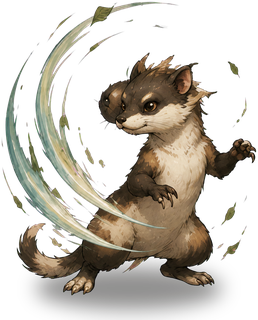
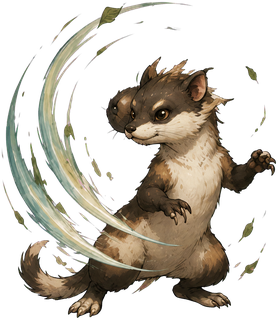
接地影をゲーム側共通表現へ移行(新美術基準対応)+序盤10体を影なしで再加工
奉行所パッケージ/00_敵イラスト制作基準.md(2026-07-31)の「透過PNGへ接地影を焼き込まない・
必要な影はゲーム画面側で全敵共通の表現として付ける」に対応。
①assets/enemies/clear/の10体を焼き込み影なしで再加工(アルファトリミング+320px縮小のみ)
②frameless敵の足元にCSS共通接地影(radial-gradientの楕円、立ち絵の背面z0)を新設。
百面師・うつろ等のframelessボスにも自動適用され、今後の新基準スプライトはそのまま置くだけになる

Claude-Session: https://claude.ai/code/session_01GCRHbynsY6dJ39RHqebWFL

diff --git a/battle.css b/battle.css
@@ -216,6 +216,14 @@
        重ならないよう、高さ方向でも縮める(844px→134=無効/667px→91/568px→68) */
   .enemy-card.frameless img.card-portrait-img { width: min(110px, 26vw, calc(23.2vh - 64px)); height: min(110px, 26vw, calc(23.2vh - 64px)); }
   .enemy-card.frameless .hp-with-warning { max-width: 92px; margin-left: auto; margin-right: auto; }
+  /* 全敵共通の接地影(新美術基準2026-07-31: 透過PNG本体へ影を焼き込まず、ゲーム画面側で統一する)。
+     立ち絵の足元に柔らかい楕円をradial-gradientで敷く。z-index:0=立ち絵(z:1)の背面。
+     大きさは立ち絵幅に対する比率ではなくカード幅基準の割合(66%)で、全敵で見た目が揃う */
+  .enemy-card.frameless .enemy-portrait-box::after {
+    content: ""; position: absolute; left: 50%; bottom: 1px; transform: translateX(-50%);
+    width: 66%; height: 12px; z-index: 0; pointer-events: none;
+    background: radial-gradient(ellipse 50% 50% at center, rgba(8,6,4,0.42), rgba(8,6,4,0.22) 55%, transparent 72%);
+  }
   /* frameless敵が討伐対象の時、金色のカード枠パルス(.quest-target)は「枠なし」の意図と矛盾する
      四角い縁として見えてしまうため消す(🎯アイコンは残るので対象表示は失われない)。
      対象選択中の赤パルス(.targetable)はタップ可能の合図として機能優先でそのまま残す */

diff --git a/tmp/process_clear_enemies.py b/tmp/process_clear_enemies.py
@@ -1,0 +1,36 @@
+# 序盤10体の透過立ち絵をテストモード用に加工する(v2 2026-08-01)
+# 新美術基準(奉行所パッケージ/00_敵イラスト制作基準.md)に従い、接地影の焼き込みを廃止
+# (影はゲーム画面側の共通CSS表現)。アルファトリミング+最大辺320px縮小のみ行う
+from PIL import Image
+import os
+
+SRC = r"C:\Users\keiic\iCloudDrive\温泉村物語用\敵キャラ\序盤10体_透過"
+DST = r"C:\温泉村物語\assets\enemies\clear"
+os.makedirs(DST, exist_ok=True)
+
+MAP = {
+    "01_野犬.png": "yaken",
+    "02_猪.png": "inoshishi",
+    "03_毒蛇.png": "dokuhebi",
+    "04_大蜘蛛.png": "oogumo",
+    "05_木霊.png": "kodama",
+    "06_河童.png": "kappa",
+    "07_一つ目小僧.png": "hitotsume_kozo",
+    "08_化け狸.png": "bake_danuki",
+    "09_鬼火.png": "onibi",
+    "10_鎌鼬.png": "kamaitachi",
+}
+
+for fname, enemy_id in MAP.items():
+    im = Image.open(os.path.join(SRC, fname)).convert("RGBA")
+    bbox = im.split()[-1].getbbox()
+    pad = 6
+    l = max(0, bbox[0] - pad); t = max(0, bbox[1] - pad)
+    r = min(im.width, bbox[2] + pad); b = min(im.height, bbox[3] + pad)
+    im = im.crop((l, t, r, b))
+    w, h = im.size
+    scale = 320 / max(w, h)
+    im = im.resize((round(w * scale), round(h * scale)), Image.LANCZOS)
+    out = os.path.join(DST, enemy_id + ".png")
+    im.save(out, "PNG", optimize=True)
+    print(enemy_id, im.size, os.path.getsize(out))
